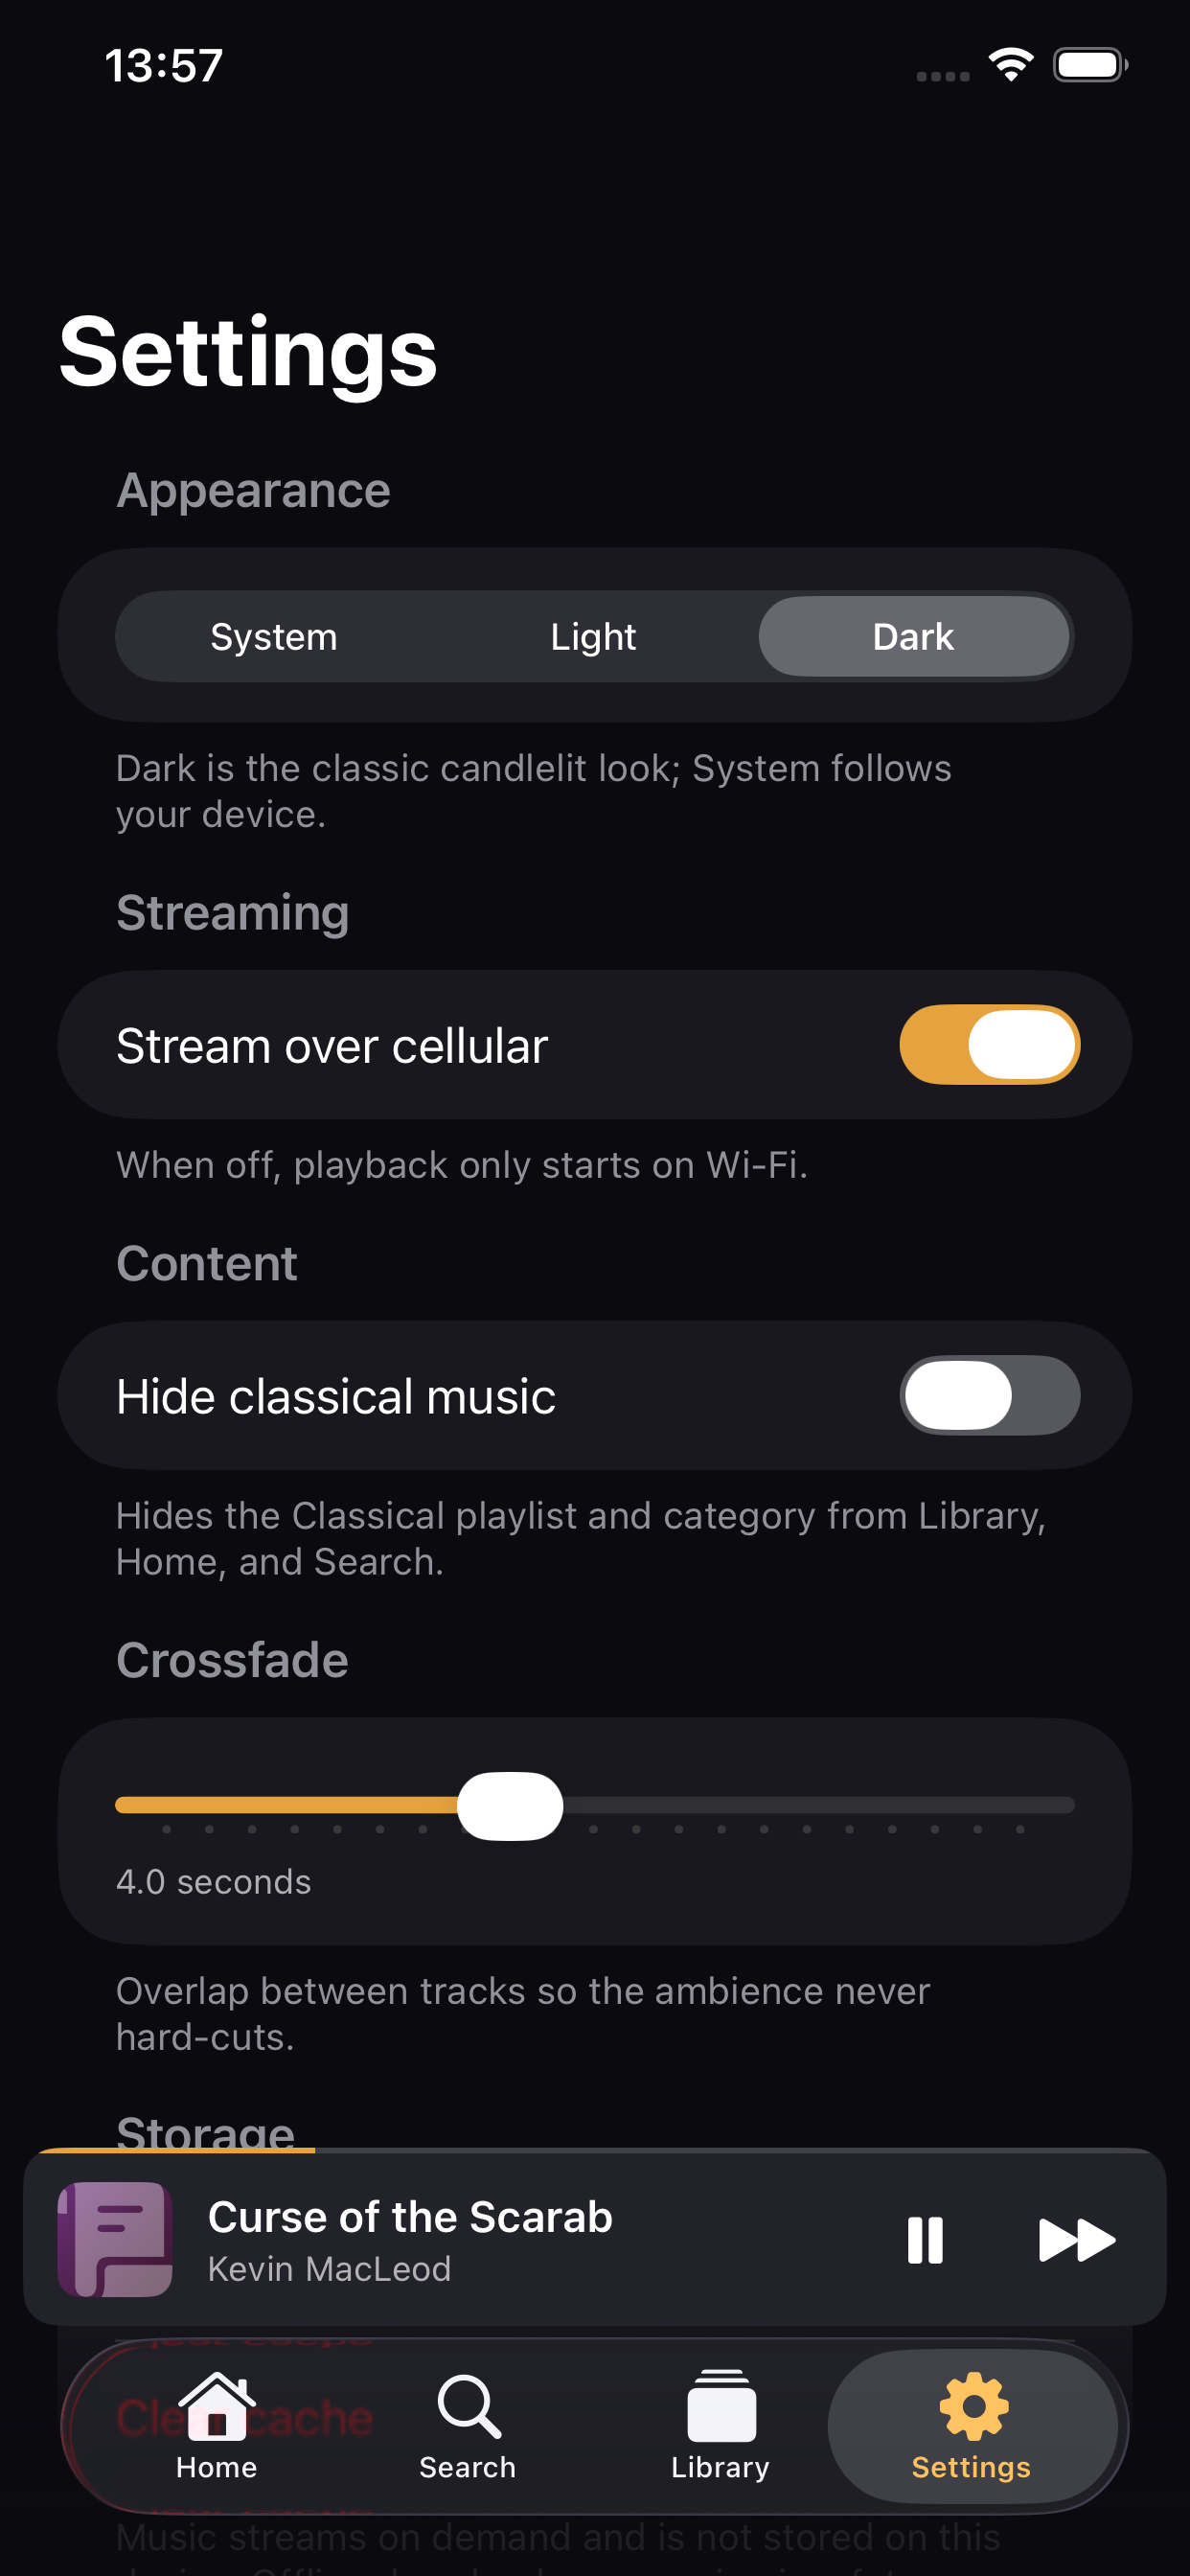
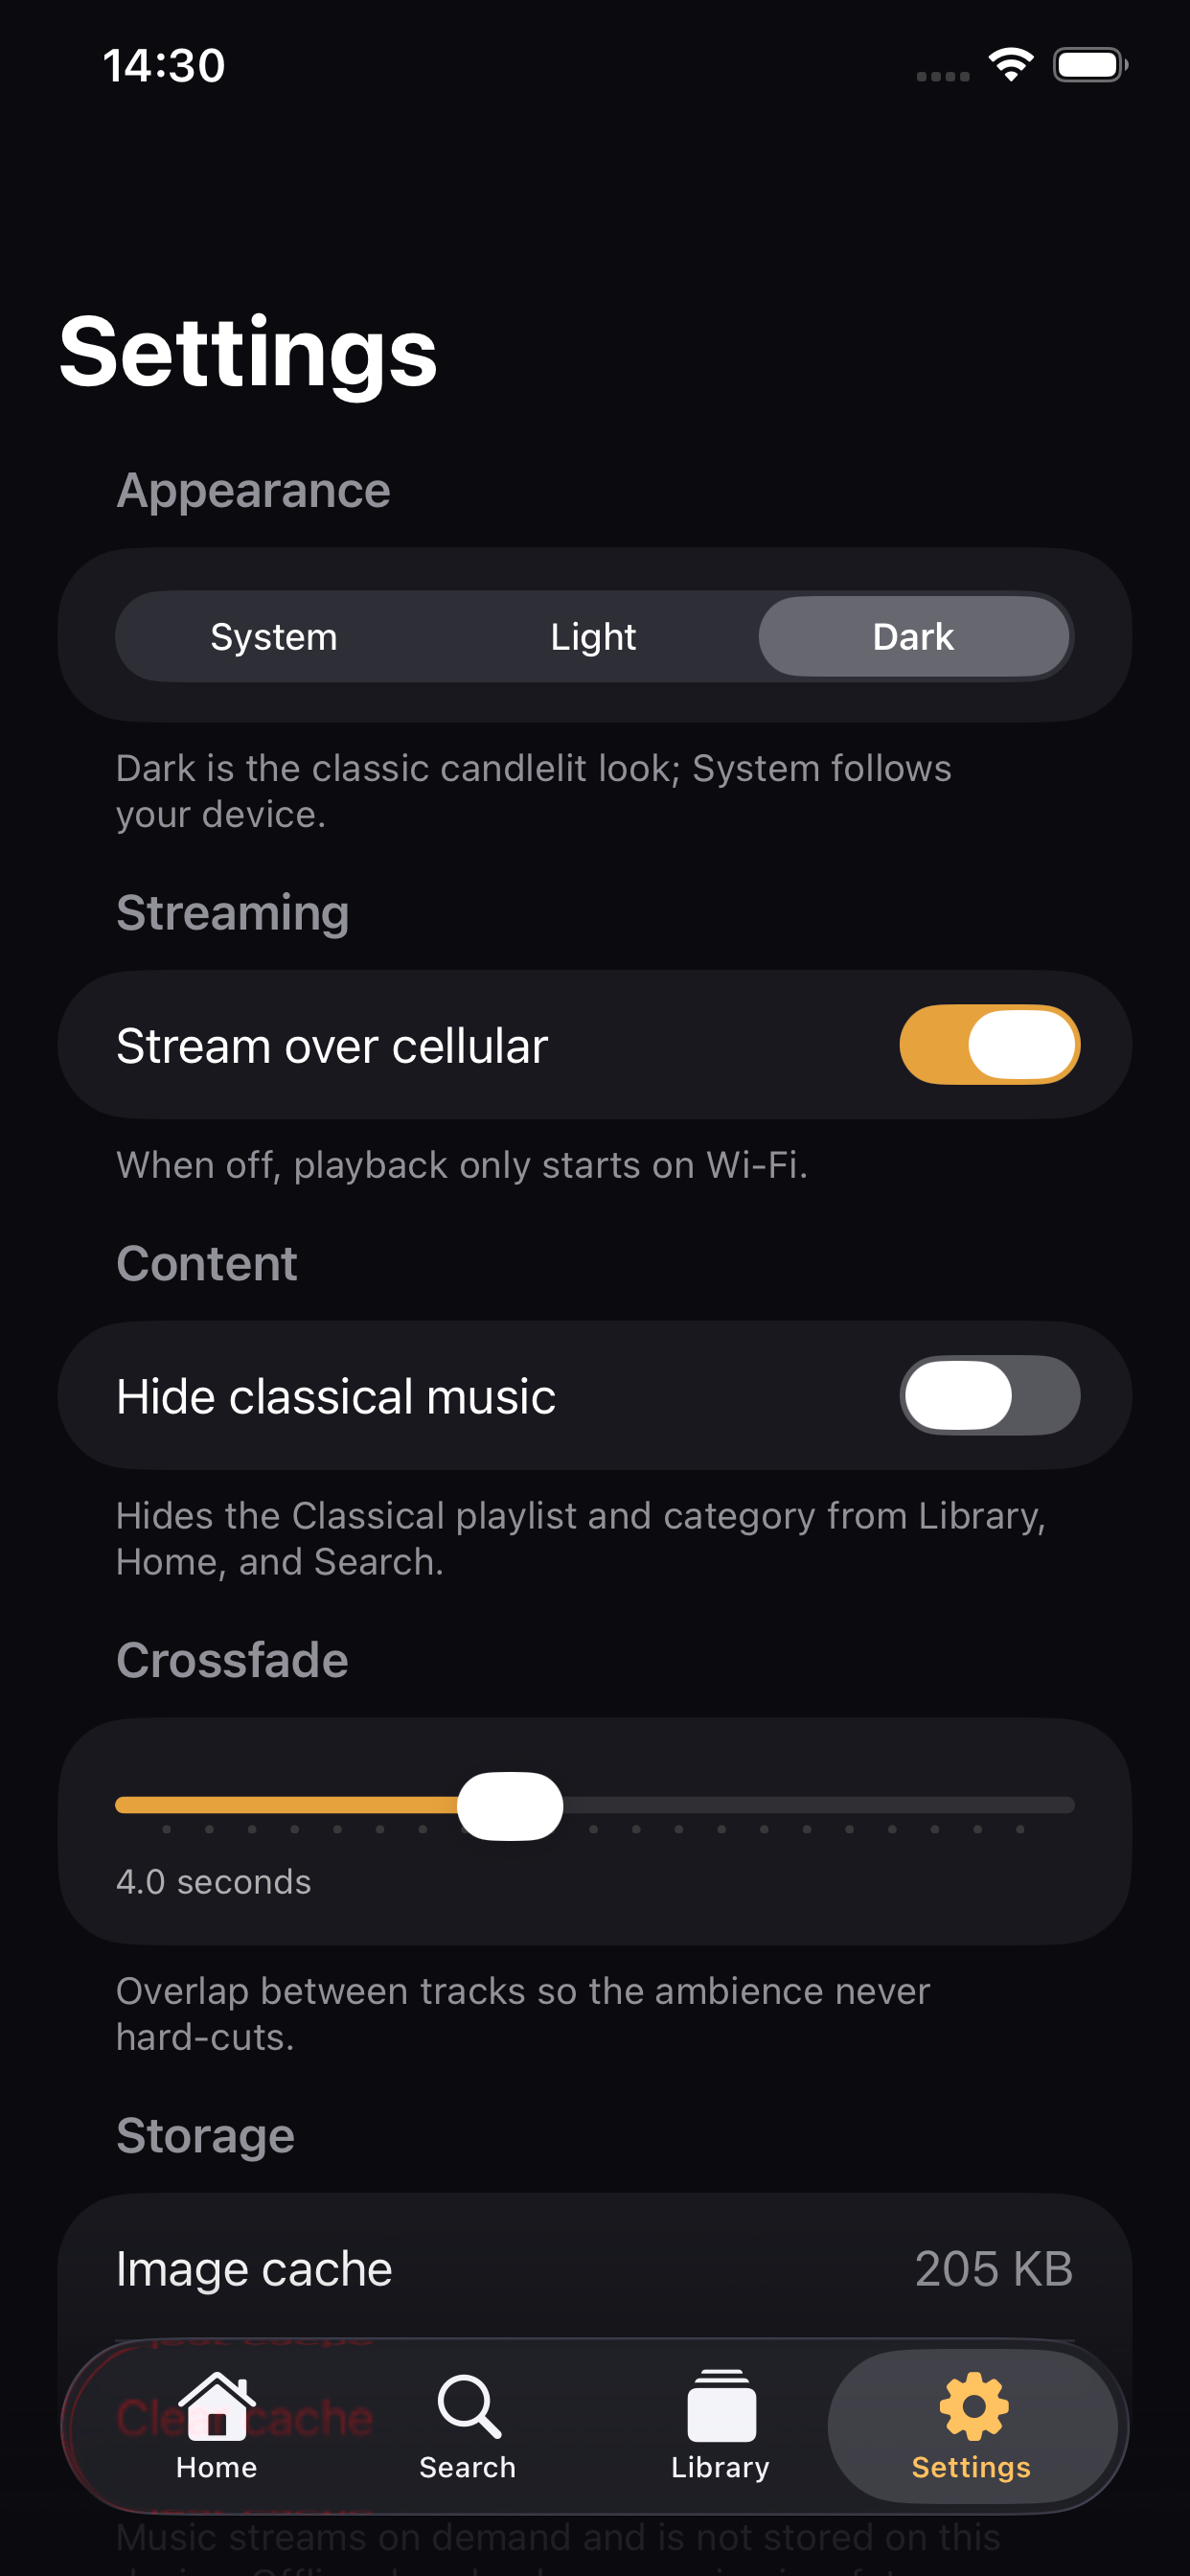
Rename app from TableScore to TabletopScore
Consistent across the whole project:
- Display name, Xcode project/target/scheme, source + test folders, Swift module
- Bundle id: com.ozsoffy.tablescore -> com.ozsoffy.tabletopscore
  (test target was inconsistently com.ozsoffy.TableTopScore; now .tests)
- Docs, tooling scripts, backend scripts and migrations
- Marketing splash filename, and Home/Settings screenshots re-captured

"Duck for Table Talk" is deliberately unchanged — it refers to talking at the
table, not the app name.

Changed region(s): [[0.0, 0.8125, 0.9791, 0.9062], [0.0918, 0.0, 0.1836, 0.0312]]

diff --git a/backend/pb_migrations/1760000000_init_schema.js b/backend/pb_migrations/1760000000_init_schema.js
@@ -1,5 +1,5 @@
 /// <reference path="../pb_data/types.d.ts" />
-// TableScore schema (PocketBase >= 0.23 JS migration API; pinned version in
+// TabletopScore schema (PocketBase >= 0.23 JS migration API; pinned version in
 // setup_server.sh). Content collections are public-read / admin-write;
 // `events` is public CREATE-only (anonymous analytics), admin-read.
 //

diff --git a/Tools/remove_splash_waves.py b/Tools/remove_splash_waves.py
@@ -2,7 +2,7 @@
 """One-off asset tool: remove the three baked-in sound-wave arcs from the
 splash screen PNG so SwiftUI can draw and animate them natively.
 
-Reads Marketing/'TableScore splash screen v1.png', writes the waveless image
+Reads Marketing/'TabletopScore splash screen v1.png', writes the waveless image
 into the SplashImage asset set, and prints the fitted arc geometry (center,
 radius, angles, stroke width, color) in display points (@3x) for SplashView.
 
@@ -18,8 +18,8 @@ import sys
 import zlib
 
 ROOT = os.path.join(os.path.dirname(__file__), "..")
-SRC = os.path.join(ROOT, "Marketing", "TableScore splash screen v1.png")
-DST = os.path.join(ROOT, "TableScore", "Resources", "Assets.xcassets", "SplashImage.imageset", "splash.png")
+SRC = os.path.join(ROOT, "Marketing", "TabletopScore splash screen v1.png")
+DST = os.path.join(ROOT, "TabletopScore", "Resources", "Assets.xcassets", "SplashImage.imageset", "splash.png")
 
 # Search window covering the whole logo, in source pixels. The arcs are the
 # three largest amber connected components AFTER the meeple+note blob.

diff --git a/consept/fetch_game_art.py b/consept/fetch_game_art.py
@@ -1,7 +1,7 @@
 #!/usr/bin/env python3
 """
 fetch_game_art.py — Pull top board games' data + box art from the BoardGameGeek XML API
-and emit the `games` fragment for TableScore's catalog.json.
+and emit the `games` fragment for TabletopScore's catalog.json.
 
 Usage:
     pip install requests
@@ -134,14 +134,14 @@ GAME_IDS = [
 ]
 
 API = "https://boardgamegeek.com/xmlapi2/thing"
-HEADERS = {"User-Agent": "TableScore-catalog-builder/1.0 (dev tooling)"}
+HEADERS = {"User-Agent": "TabletopScore-catalog-builder/1.0 (dev tooling)"}
 if BGG_TOKEN:
     HEADERS["Authorization"] = f"Bearer {BGG_TOKEN}"
 # Image downloads go to BGG's image CDN (different host): never send the
 # API token there.
 IMAGE_HEADERS = {"User-Agent": HEADERS["User-Agent"]}
 
-# BGG category → TableScore category ids (extend as needed)
+# BGG category → TabletopScore category ids (extend as needed)
 CATEGORY_MAP = {
     "Wargame": "war", "World War II": "war", "Fighting": "war",
     "Trains": "trains-18xx", "Transportation": "trains-18xx",

diff --git a/Tools/gen_catalog.py b/Tools/gen_catalog.py
@@ -1,5 +1,5 @@
 #!/usr/bin/env python3
-"""Generate the development fixture catalog.json for TableScore.
+"""Generate the development fixture catalog.json for TabletopScore.
 
 Run from the repo root:  python3 Tools/gen_catalog.py
 
@@ -336,7 +336,7 @@ manifest = {
     "tracks": tracks,
     "games": games,
 }
-out = os.path.join(os.path.dirname(__file__), "..", "TableScore", "Resources", "catalog.json")
+out = os.path.join(os.path.dirname(__file__), "..", "TabletopScore", "Resources", "catalog.json")
 with open(out, "w") as f:
     json.dump(manifest, f, indent=2, ensure_ascii=False)
 print(f"tracks={len(tracks)} playlists={len(playlists)} categories={len(categories)} games={len(games)}")

diff --git a/Tools/fetch_classical.py b/Tools/fetch_classical.py
@@ -27,7 +27,7 @@ SOURCES = os.path.join(os.path.dirname(__file__), "sources.csv")
 
 BASE = "https://incompetech.com/music/royalty-free/mp3-royaltyfree/{}.mp3"
 SOURCE_PAGE = "https://incompetech.com/music/royalty-free/"
-HEADERS = {"User-Agent": "TableScore-catalog-builder/1.0 (dev tooling)"}
+HEADERS = {"User-Agent": "TabletopScore-catalog-builder/1.0 (dev tooling)"}
 
 # Candidate KM titles that are arrangements of public-domain classical works
 # (or KM classical-style piano originals). Reality is enforced by verification;

diff --git a/Tools/fetch_music.py b/Tools/fetch_music.py
@@ -30,7 +30,7 @@ SOURCES = os.path.join(os.path.dirname(__file__), "sources.csv")
 BASE = "https://incompetech.com/music/royalty-free/mp3-royaltyfree/{}.mp3"
 SOURCE_PAGE = "https://incompetech.com/music/royalty-free/"
 DEV_CDN = "http://localhost:8787/audio"
-HEADERS = {"User-Agent": "TableScore-catalog-builder/1.0 (dev tooling)"}
+HEADERS = {"User-Agent": "TabletopScore-catalog-builder/1.0 (dev tooling)"}
 TRACKS_PER_PLAYLIST = 4
 
 # Candidate incompetech titles per playlist, best fit first. Extra candidates

diff --git a/Tools/merge_bgg_games.py b/Tools/merge_bgg_games.py
@@ -1,5 +1,5 @@
 #!/usr/bin/env python3
-"""Curate the BGG fetch output into TableScore's catalog schema.
+"""Curate the BGG fetch output into TabletopScore's catalog schema.
 
 Reads consept/games.json (produced by consept/fetch_game_art.py), assigns the
 hand-curated soundtrack playlist per game, maps BGG categories onto our

diff --git a/backend/migrate_content.py b/backend/migrate_content.py
@@ -19,7 +19,7 @@ from urllib.parse import unquote, urlparse
 import requests
 
 ROOT = os.path.join(os.path.dirname(__file__), "..")
-CATALOG = os.path.join(ROOT, "TableScore", "Resources", "catalog.json")
+CATALOG = os.path.join(ROOT, "TabletopScore", "Resources", "catalog.json")
 AUDIO_DIR = os.path.join(ROOT, "DevCDN", "audio")
 ART_DIR = os.path.join(ROOT, "DevCDN", "art")
 

diff --git a/README.md b/README.md
@@ -1,8 +1,8 @@
 <div align="center">
 
-<img src="TableScore/Resources/Assets.xcassets/AppIcon.appiconset/icon-1024.png" width="140" alt="Table Score app icon">
+<img src="TabletopScore/Resources/Assets.xcassets/AppIcon.appiconset/icon-1024.png" width="140" alt="TabletopScore app icon">
 
-# Table Score
+# TabletopScore
 
 **Background music for board game nights.**
 Pick the game on your table — get its soundtrack.
@@ -15,7 +15,7 @@ iOS 17+ · SwiftUI · SwiftData · AVFoundation · no third-party dependencies
 
 ## What it does
 
-Table Score is a background-music player built for the table. You browse by
+TabletopScore is a background-music player built for the table. You browse by
 **the game you're actually playing** — 105 titles, each mapped to a curated
 soundtrack — hit play, and the music runs for the whole session: crossfaded,
 looping, with a sleep timer and a one-tap volume duck for when someone has to
@@ -55,11 +55,11 @@ catalog.json manifest → CatalogSyncService → SwiftData → @Query-driven UI
 
 | Module | Purpose |
 |---|---|
-| `TableScore/Models` | SwiftData models: `Game`, `Track`, `Playlist`, `GameCategory`, `PlaybackStateRecord`. Ids are the catalog's string slugs so sync can diff by manifest id. |
-| `TableScore/Catalog` | `CatalogSource` protocol (backend or bundled fixture), manifest DTOs, `CatalogSyncService` (upsert/diff, preserves user state, removes deleted ids). |
-| `TableScore/Player` | `PlayerService` (@Observable facade), `CrossfadeEngine` (two AVPlayers so tracks can overlap), `PlayQueue` (pure, unit-tested shuffle/repeat logic), `NetworkMonitor`. |
-| `TableScore/DesignSystem` | Theme tokens, shimmer loading, deterministic gradient placeholder art (keyed by id — used in views *and* lock-screen artwork). |
-| `TableScore/Features` | Game-first Home, game detail, category grid, playlist detail, Now Playing + mini player, Search, Library, Settings. |
+| `TabletopScore/Models` | SwiftData models: `Game`, `Track`, `Playlist`, `GameCategory`, `PlaybackStateRecord`. Ids are the catalog's string slugs so sync can diff by manifest id. |
+| `TabletopScore/Catalog` | `CatalogSource` protocol (backend or bundled fixture), manifest DTOs, `CatalogSyncService` (upsert/diff, preserves user state, removes deleted ids). |
+| `TabletopScore/Player` | `PlayerService` (@Observable facade), `CrossfadeEngine` (two AVPlayers so tracks can overlap), `PlayQueue` (pure, unit-tested shuffle/repeat logic), `NetworkMonitor`. |
+| `TabletopScore/DesignSystem` | Theme tokens, shimmer loading, deterministic gradient placeholder art (keyed by id — used in views *and* lock-screen artwork). |
+| `TabletopScore/Features` | Game-first Home, game detail, category grid, playlist detail, Now Playing + mini player, Search, Library, Settings. |
 
 Three details worth knowing before changing things:
 
@@ -97,18 +97,18 @@ clients resync automatically. See [`backend/README.md`](backend/README.md).
 
 ```sh
 # Build
-xcodebuild -project TableScore.xcodeproj -scheme TableScore \
+xcodebuild -project TabletopScore.xcodeproj -scheme TabletopScore \
   -destination 'platform=iOS Simulator,name=iPhone 17 Pro' build
 
 # All tests (catalog sync/diffing + queue logic)
-xcodebuild -project TableScore.xcodeproj -scheme TableScore \
+xcodebuild -project TabletopScore.xcodeproj -scheme TabletopScore \
   -destination 'platform=iOS Simulator,name=iPhone 17 Pro' test
 
 # A single test class
-xcodebuild ... test -only-testing:TableScoreTests/PlayQueueTests
+xcodebuild ... test -only-testing:TabletopScoreTests/PlayQueueTests
 ```
 
-Or open `TableScore.xcodeproj` and hit Run. The project uses file-system
+Or open `TabletopScore.xcodeproj` and hit Run. The project uses file-system
 synchronized groups (Xcode 16+), so files added to the folders are picked up
 automatically — never add per-file entries to the pbxproj.
 
@@ -118,8 +118,8 @@ serve the local media with `Tools/serve_devcdn.sh`.
 
 ### Signing for a real device
 
-Target *TableScore* → *Signing & Capabilities* → select your team. Bundle id is
-`com.ozsoffy.tablescore`. Background audio is already configured via
+Target *TabletopScore* → *Signing & Capabilities* → select your team. Bundle id is
+`com.ozsoffy.tabletopscore`. Background audio is already configured via
 [`Support/Info.plist`](Support/Info.plist) (`UIBackgroundModes: audio`).
 
 ## Media
@@ -156,13 +156,13 @@ the pre-release checklist.
 
 - Model ids are `String` (catalog slugs), not `UUID` — required for stable sync diffing.
 - The spec's `Category` model is named `GameCategory`, to avoid colliding with common framework type names.
-- Display name is **Table Score** (two words); code, targets and bundle ids keep the one-word `TableScore` internally.
+- The app was renamed from *TableScore* to **TabletopScore**; the display name, target, module and bundle id (`com.ozsoffy.tabletopscore`) are all consistent.
 
 ## Docs
 
 | File | What's in it |
 |---|---|
-| [`TableScore-Spec.md`](TableScore-Spec.md) | Product spec (source of truth) |
+| [`TabletopScore-Spec.md`](TabletopScore-Spec.md) | Product spec (source of truth) |
 | [`CLAUDE.md`](CLAUDE.md) | Architecture notes and repo conventions |
 | [`LICENSING.md`](LICENSING.md) | Approved music sources, compliance rules |
 | [`assets/README.md`](assets/README.md) | Media layout and how to repopulate |

diff --git a/CLAUDE.md b/CLAUDE.md
@@ -4,50 +4,50 @@ This file provides guidance to Claude Code (claude.ai/code) when working with co
 
 ## Project
 
-TableScore: an iOS 17+ background-music player for board game sessions (SwiftUI, SwiftData, AVFoundation, no third-party dependencies). The authoritative product spec is `TableScore-Spec.md`; deviations from it are listed at the bottom of `README.md`.
+TabletopScore: an iOS 17+ background-music player for board game sessions (SwiftUI, SwiftData, AVFoundation, no third-party dependencies). The authoritative product spec is `TabletopScore-Spec.md`; deviations from it are listed at the bottom of `README.md`.
 
 ## Commands
 
 ```sh
 # Build (iOS Simulator)
-xcodebuild -project TableScore.xcodeproj -scheme TableScore \
+xcodebuild -project TabletopScore.xcodeproj -scheme TabletopScore \
   -destination 'platform=iOS Simulator,name=iPhone 17 Pro' build
 
 # All unit tests
-xcodebuild -project TableScore.xcodeproj -scheme TableScore \
+xcodebuild -project TabletopScore.xcodeproj -scheme TabletopScore \
   -destination 'platform=iOS Simulator,name=iPhone 17 Pro' test
 
 # Single test class / case
-xcodebuild ... test -only-testing:TableScoreTests/PlayQueueTests
-xcodebuild ... test -only-testing:TableScoreTests/CatalogSyncTests/testResyncRemovesDeletedPlaylist
+xcodebuild ... test -only-testing:TabletopScoreTests/PlayQueueTests
+xcodebuild ... test -only-testing:TabletopScoreTests/CatalogSyncTests/testResyncRemovesDeletedPlaylist
 
 # Run in simulator
-xcrun simctl install "iPhone 17 Pro" <DerivedData>/Build/Products/Debug-iphonesimulator/TableScore.app
-xcrun simctl launch "iPhone 17 Pro" com.tablescore.app
+xcrun simctl install "iPhone 17 Pro" <DerivedData>/Build/Products/Debug-iphonesimulator/TabletopScore.app
+xcrun simctl launch "iPhone 17 Pro" com.tabletopscore.app
 ```
 
 There is no linter. Keep the build at zero warnings — `appintentsmetadataprocessor` warnings are toolchain noise and can be ignored.
 
 ## Project file rules
 
-- `TableScore.xcodeproj/project.pbxproj` is hand-written (objectVersion 77) and uses `PBXFileSystemSynchronizedRootGroup` for `TableScore/` and `TableScoreTests/`. **New source files are picked up automatically — never add per-file entries to the pbxproj.**
-- `Support/Info.plist` must stay OUTSIDE the synced `TableScore/` folder: it merges with the generated Info.plist via `INFOPLIST_FILE`, and moving it inside causes a "multiple commands produce Info.plist" build failure. It carries `UIBackgroundModes: audio` (required for background playback).
-- User-facing strings go through String Catalogs (`TableScore/Resources/Localizable.xcstrings`, auto-extracted at build via `SWIFT_EMIT_LOC_STRINGS`).
+- `TabletopScore.xcodeproj/project.pbxproj` is hand-written (objectVersion 77) and uses `PBXFileSystemSynchronizedRootGroup` for `TabletopScore/` and `TabletopScoreTests/`. **New source files are picked up automatically — never add per-file entries to the pbxproj.**
+- `Support/Info.plist` must stay OUTSIDE the synced `TabletopScore/` folder: it merges with the generated Info.plist via `INFOPLIST_FILE`, and moving it inside causes a "multiple commands produce Info.plist" build failure. It carries `UIBackgroundModes: audio` (required for background playback).
+- User-facing strings go through String Catalogs (`TabletopScore/Resources/Localizable.xcstrings`, auto-extracted at build via `SWIFT_EMIT_LOC_STRINGS`).
 
 ## Architecture
 
 Data flows one way: **catalog.json manifest → CatalogSyncService → SwiftData → @Query-driven UI**, with `PlayerService` as the single mutable runtime object injected via `.environment`.
 
-- **Catalog** (`TableScore/Catalog/`): `CatalogSource` protocol abstracts where `catalog.json` comes from — `BundledCatalogSource` (dev fixture in `Resources/catalog.json`) vs `RemoteCatalogSource` (CDN with ETag/304). The swap point is `RootView.initialSync()`. `CatalogSyncService.apply()` is a pure upsert/diff: manifest ids are the source of truth, user state (`isFavorite`, `lastPlayedAt`, `playCount`) survives resyncs, ids missing from the manifest are deleted. Syncs are skipped unless the manifest `version` changes — when editing the fixture, **bump `version` or the change won't apply** on existing installs.
-- **Models** (`TableScore/Models/`): ids are String catalog slugs (not the spec's UUIDs) so sync can diff by manifest id. `Playlist.orderedTrackIDs` preserves manifest track order because SwiftData to-many relationships don't guarantee order — always read tracks via `playlist.orderedTracks`. The spec's `Category` is named `GameCategory`.
-- **Player** (`TableScore/Player/`): three layers, deliberately separated:
+- **Catalog** (`TabletopScore/Catalog/`): `CatalogSource` protocol abstracts where `catalog.json` comes from — `BundledCatalogSource` (dev fixture in `Resources/catalog.json`) vs `RemoteCatalogSource` (CDN with ETag/304). The swap point is `RootView.initialSync()`. `CatalogSyncService.apply()` is a pure upsert/diff: manifest ids are the source of truth, user state (`isFavorite`, `lastPlayedAt`, `playCount`) survives resyncs, ids missing from the manifest are deleted. Syncs are skipped unless the manifest `version` changes — when editing the fixture, **bump `version` or the change won't apply** on existing installs.
+- **Models** (`TabletopScore/Models/`): ids are String catalog slugs (not the spec's UUIDs) so sync can diff by manifest id. `Playlist.orderedTrackIDs` preserves manifest track order because SwiftData to-many relationships don't guarantee order — always read tracks via `playlist.orderedTracks`. The spec's `Category` is named `GameCategory`.
+- **Player** (`TabletopScore/Player/`): three layers, deliberately separated:
   - `PlayQueue<Element>` — pure struct holding ordering/shuffle/repeat logic; unit-tested, no AVFoundation. Shuffle keeps the current item as head; auto-advance vs user-initiated advance differ under repeat-one.
   - `CrossfadeEngine` — two `AVPlayer`s behind one facade (an `AVQueuePlayer` cannot overlap items, which crossfade requires). Owns volume ramps, per-player end observation, periodic ticks. All `@MainActor`.
   - `PlayerService` — the `@Observable` facade views talk to. Owns the queue + engine, MPNowPlayingInfoCenter/MPRemoteCommandCenter, interruption/route-change handling, sleep timer, duck, cellular gating (`NetworkMonitor` + `AppSettings.allowCellularStreaming`), and persistence of `PlaybackStateRecord` (queue restores paused at position on relaunch via `configure(context:)`).
   - Crossfade triggering lives in `PlayerService.handleTick`: the queue advances *when the fade starts*, not when the outgoing track ends; `handleTrackEnded` is the no-crossfade fallback path. Keep those two paths consistent when changing advance semantics.
 - **Artwork**: there is no bundled or remote art in v1. `PlaceholderArt` renders deterministic gradients keyed by playlist/track id and is used both by SwiftUI views (`ArtworkView`) and for lock-screen artwork (UIImage rendering, cached). Same key must always produce the same art.
 - **Games**: the primary browse axis. `Game` maps to exactly one curated `playlist` — the mapping is manifest content (`games[].playlistId`), never app logic. `Game.lastPlayedAt` (set at play call sites, not in PlayerService) drives the "Recently Played Games" row.
-- **Fixture**: `TableScore/Resources/catalog.json` (17 playlists, 29 categories, 105 games; tracks are Kevin MacLeod CC-BY MP3s in `DevCDN/audio/`, streamed from `Tools/serve_devcdn.sh` on localhost:8787) is generated by `Tools/gen_catalog.py` from `Tools/music_manifest.json` (produced by `Tools/fetch_music.py`) — edit and rerun scripts rather than hand-editing JSON, and bump `VERSION`. `CatalogSyncTests.testBundledFixtureDecodesAndMeetsSpecMinimums` enforces spec minimums (≥60 tracks/≥12 playlists/≥20 categories/≥100 games) and referential integrity.
+- **Fixture**: `TabletopScore/Resources/catalog.json` (17 playlists, 29 categories, 105 games; tracks are Kevin MacLeod CC-BY MP3s in `DevCDN/audio/`, streamed from `Tools/serve_devcdn.sh` on localhost:8787) is generated by `Tools/gen_catalog.py` from `Tools/music_manifest.json` (produced by `Tools/fetch_music.py`) — edit and rerun scripts rather than hand-editing JSON, and bump `VERSION`. `CatalogSyncTests.testBundledFixtureDecodesAndMeetsSpecMinimums` enforces spec minimums (≥60 tracks/≥12 playlists/≥20 categories/≥100 games) and referential integrity.
 
 ## Licensing invariants
 
@@ -57,5 +57,5 @@ Data flows one way: **catalog.json manifest → CatalogSyncService → SwiftData
 ## Conventions
 
 - MVVM-lite: views read SwiftData via `@Query` directly; `@Observable` + `@MainActor` for services; Swift 5 language mode.
-- Tests are hosted XCTest (`@testable import TableScore`) with in-memory `ModelContainer`s; shuffle tests inject a seeded `RandomNumberGenerator`.
+- Tests are hosted XCTest (`@testable import TabletopScore`) with in-memory `ModelContainer`s; shuffle tests inject a seeded `RandomNumberGenerator`.
 - Every interactive control gets an explicit `accessibilityLabel`; motion (hero auto-advance, shimmer) must respect `accessibilityReduceMotion`.

diff --git a/claude-code-prompt.md b/claude-code-prompt.md
@@ -1,10 +1,10 @@
-# Claude Code prompt — TableScore
+# Claude Code prompt — TabletopScore
 
-Copy everything below the line into Claude Code, run from an empty project folder containing `TableScore-Spec.md`.
+Copy everything below the line into Claude Code, run from an empty project folder containing `TabletopScore-Spec.md`.
 
 ---
 
-Build an iOS app called **TableScore** (App Store name: "TableScore: Board Game Music") — a background-music player for board game sessions. The full spec is in `TableScore-Spec.md` in this folder; read it first and follow it. Key decisions, already made:
+Build an iOS app called **TabletopScore** (App Store name: "TabletopScore: Board Game Music") — a background-music player for board game sessions. The full spec is in `TabletopScore-Spec.md` in this folder; read it first and follow it. Key decisions, already made:
 
 **Stack:** SwiftUI, SwiftData, AVFoundation. iOS 17+, iPhone-first. MVVM with `@Observable` view models. No third-party dependencies except (optionally) Nuke for image caching — prefer plain `AsyncImage` with a small disk cache first.
 
@@ -17,7 +17,7 @@ Build an iOS app called **TableScore** (App Store name: "TableScore: Board Game 
 **Screens:** Home (hero + rows), Category "see all" grid, Playlist detail (art, description, track list, Play/Shuffle), Now Playing, Search (name/tag/mood), Library (favorites, recently played), Settings (cellular streaming toggle, crossfade, cache size). Tab bar: Home, Search, Library, Settings.
 
 **How to work:**
-1. Read `TableScore-Spec.md` fully.
+1. Read `TabletopScore-Spec.md` fully.
 2. Create the Xcode project structure (use XcodeGen or Tuist if available, otherwise create the `.xcodeproj` layout you can and give me exact Xcode steps for anything that must be done in the GUI, e.g. capabilities).
 3. Build in this order: SwiftData models + catalog sync with fixture catalog → PlayerService with background audio → Home browse UI → mini player + Now Playing → playlist detail → search/library/settings → polish (shimmer loading, haptics, accessibility labels, Dynamic Type).
 4. After each milestone, build with `xcodebuild` for the iOS Simulator and fix all errors and warnings before moving on. Write unit tests for catalog sync/diffing and the queue logic in PlayerService.

diff --git a/backend/README.md b/backend/README.md
@@ -1,4 +1,4 @@
-# TableScore backend (PocketBase on Oracle Cloud Always Free)
+# TabletopScore backend (PocketBase on Oracle Cloud Always Free)
 
 One VM.Standard.A1.Flex (2 OCPU / 12 GB, Ubuntu 24.04 arm64) running
 [PocketBase](https://pocketbase.io) behind Caddy (automatic Let's Encrypt
@@ -25,7 +25,7 @@ sh backend/provision.sh
 DOMAIN=your-domain sh backend/deploy.sh SERVER_IP
 
 # 4. First deploy only: create the superuser (interactive, on the server)
-ssh -i backend/keys/tablescore_ed25519 ubuntu@SERVER_IP
+ssh -i backend/keys/tabletopscore_ed25519 ubuntu@SERVER_IP
 sudo -u pocketbase /opt/pocketbase/pocketbase superuser upsert EMAIL PASSWORD --dir /opt/pocketbase/pb_data
 
 # 5. Migrate content (uploads ~500 MB of audio on first run)
@@ -55,7 +55,7 @@ with a 5-minute cache, so worst case an edit takes ~5 min + next app launch).
 ## App integration
 
 `PocketBaseCatalogSource` in the iOS app points at
-`BackendConfig.baseURL` (single constant in `TableScore/App/BackendConfig.swift`).
+`BackendConfig.baseURL` (single constant in `TabletopScore/App/BackendConfig.swift`).
 DEBUG builds default to the bundled fixture; launch argument
 `-UseRemoteCatalog` switches a DEBUG build to the server. Release builds
 always use the server.